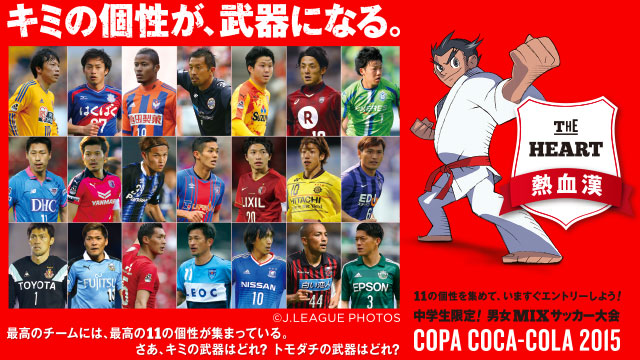
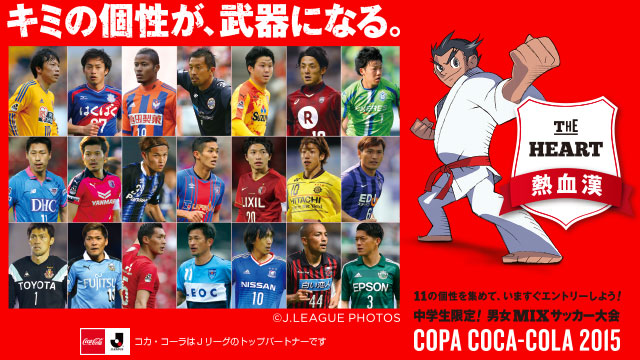
Modify

Changed region(s): [[0.0, 0.8861, 0.625, 1.0]]

diff --git a/public/assets/application-1bf8e5c6130f65caaccfe650747092e0.css b/public/assets/application-1bf8e5c6130f65caaccfe650747092e0.css
@@ -6,7 +6,7 @@ input[type="button"],input[type="submit"] {
   }
 
 html {
-background: #f50008 url(../img/bg_pitch.png) no-repeat 50% bottom fixed;
+background: #f50008 url(/images/bg_pitch.png) no-repeat 50% bottom fixed;
 background-size: 100%;
 }
 body {
@@ -152,7 +152,7 @@ input[type="button"].tw {
 	max-width: 360px;
 	box-sizing: border-box;
 	margin: 10px 0;
-	background: rgba(0,172,237,1) url(../img/twitter-bird-bgs.png) no-repeat 10px 50%;
+	background: rgba(0,172,237,1) url(/images/twitter-bird-bgs.png) no-repeat 10px 50%;
 	color: white;
 	border-radius: 4px;
 	border: 1px solid rgba(0,138,189,1);
@@ -269,3 +269,19 @@ footer img {
 		font-size: x-small;
 	}
 }
+/*
+ * This is a manifest file that'll be compiled into application.css, which will include all the files
+ * listed below.
+ *
+ * Any CSS and SCSS file within this directory, lib/assets/stylesheets, vendor/assets/stylesheets,
+ * or vendor/assets/stylesheets of plugins, if any, can be referenced here using a relative path.
+ *
+ * You're free to add application-wide styles to this file and they'll appear at the bottom of the
+ * compiled file so the styles you add here take precedence over styles defined in any styles
+ * defined in the other CSS/SCSS files in this directory. It is generally better to create a new
+ * file per style scope.
+ *
+
+
+ */
+

diff --git a/raw/index.html b/raw/index.html
@@ -62,12 +62,13 @@
 </div>
 
 
+
+<footer role="contentinfo">
+<a href="http://www.cocacola.jp/copa/" target="_blank"><img src="img/title_copa.png" title="COPA COCA-COLA2015" /></a>
 <div id="jleague" class="dispTbl">
 	<div class="dispCell w30 vM"><img src="img/cocacola-jleague.png" title="COPA COCA-COLA2015" /></div>
 	<div class="dispCell w70 vM">コカ・コーラはＪリーグのトップパートナーです</div>
 </div>
-<footer role="contentinfo">
-<a href="http://www.cocacola.jp/copa/" target="_blank"><img src="img/title_copa.png" title="COPA COCA-COLA2015" /></a>
-</footer>
-</body>
+
+</footer></body>
 </html>

diff --git a/raw/input.html b/raw/input.html
@@ -29,12 +29,12 @@
 	</div>
 </div>
 
+<footer role="contentinfo">
+<a href="http://www.cocacola.jp/copa/" target="_blank"><img src="img/title_copa.png" title="COPA COCA-COLA2015" /></a>
 <div id="jleague" class="dispTbl">
 	<div class="dispCell w30 vM"><img src="img/cocacola-jleague.png" title="COPA COCA-COLA2015" /></div>
 	<div class="dispCell w70 vM">コカ・コーラはＪリーグのトップパートナーです</div>
 </div>
-<footer role="contentinfo">
-<a href="http://www.cocacola.jp/copa/" target="_blank"><img src="img/title_copa.png" title="COPA COCA-COLA2015" /></a>
 </footer>
 </body>
 </html>

diff --git a/raw/result.html b/raw/result.html
@@ -66,12 +66,12 @@
 
 </div>
 
+<footer role="contentinfo">
+<a href="http://www.cocacola.jp/copa/" target="_blank"><img src="img/title_copa.png" title="COPA COCA-COLA2015" /></a>
 <div id="jleague" class="dispTbl">
 	<div class="dispCell w30 vM"><img src="img/cocacola-jleague.png" title="COPA COCA-COLA2015" /></div>
 	<div class="dispCell w70 vM">コカ・コーラはＪリーグのトップパートナーです</div>
 </div>
-<footer role="contentinfo">
-<a href="http://www.cocacola.jp/copa/" target="_blank"><img src="img/title_copa.png" title="COPA COCA-COLA2015" /></a>
 </footer>
 </body>
 </html>

diff --git a/app/assets/stylesheets/style.css b/app/assets/stylesheets/style.css
@@ -203,15 +203,13 @@ input[type="button"].tw:focus,input[type="button"].tw:hover {
 }
 #jleague {
 	max-width:450px;
-	background: black;
 	color: white;
 	margin: 0 auto 20px;
 	text-align:left;
 	font-size: small;
-	border: 1px solid white;
 }
 #jleague div {padding: 5px;}
-#jleague div img {width:100%;}
+#jleague div img {width:90%;}
 
 footer {
 	max-width: 450px;
@@ -268,5 +266,6 @@ footer img {
 	}
 	#jleague {
 		margin: 0 10px 10px;
+		font-size: x-small;
 	}
 }
